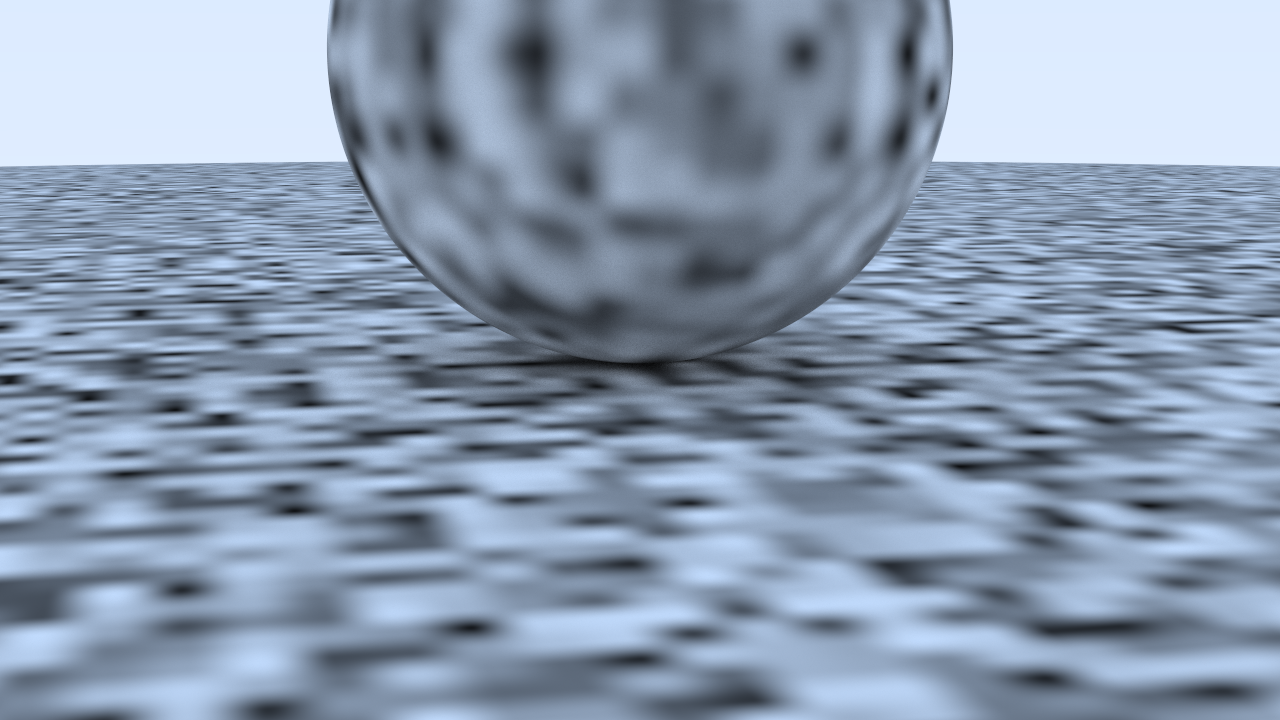
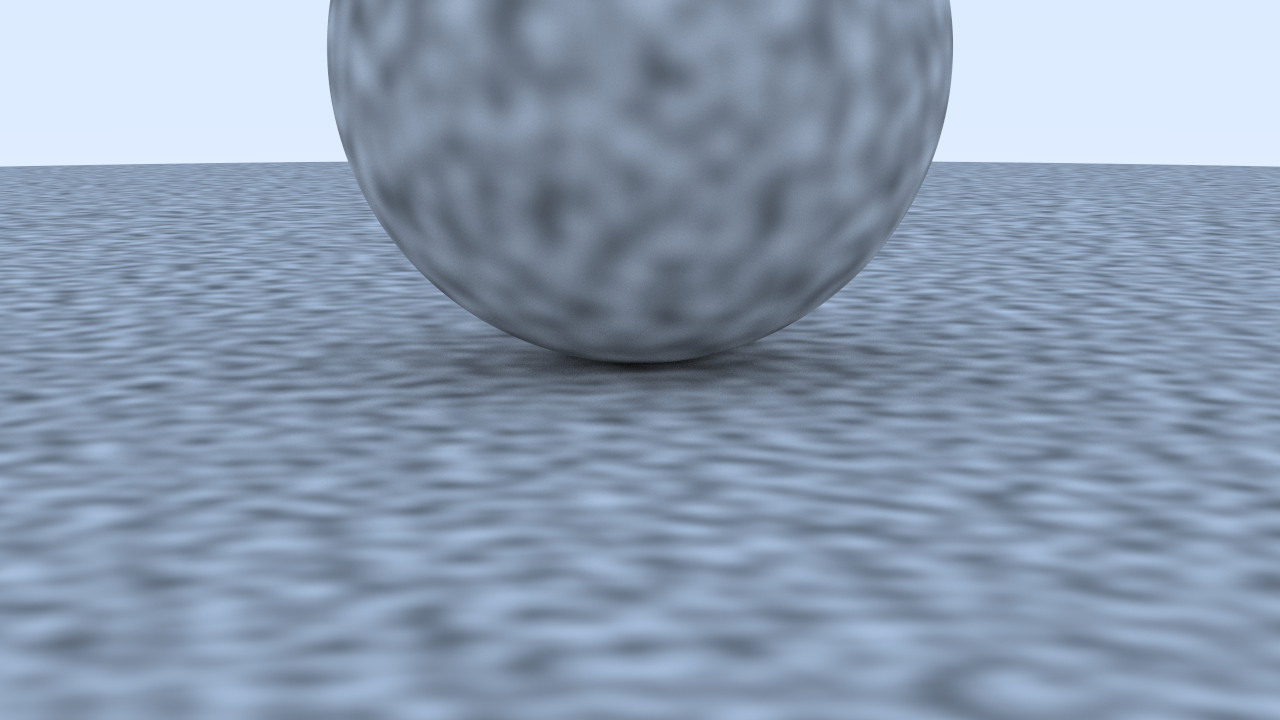
feat: randomize lattice points

diff --git a/src/common/perlin.h b/src/common/perlin.h
@@ -6,8 +6,8 @@
 
 struct Perlin {
     Perlin() {
-        for (auto& elem : m_rand_float) {
-            elem = random_double();
+        for (auto& elem : m_rand_vec) {
+            elem = Vec3d::Random().normalized();
         }
         perlin_generate_perm(m_perm_x);
         perlin_generate_perm(m_perm_y);
@@ -19,30 +19,26 @@ struct Perlin {
         const double v = p.y() - std::floor(p.y());
         const double w = p.z() - std::floor(p.z());
 
-        const double hermit_u = u * u * (3.0 - 2.0 * u);
-        const double hermit_v = v * v * (3.0 - 2.0 * v);
-        const double hermit_w = w * w * (3.0 - 2.0 * w);
-
         const int i = int(std::floor(p.x()));
         const int j = int(std::floor(p.y()));
         const int k = int(std::floor(p.z()));
 
-        double c[2][2][2];
+        Vec3d c[2][2][2];
         for (int di = 0; di < 2; ++di) {
             for (int dj = 0; dj < 2; ++dj) {
                 for (int dk = 0; dk < 2; ++dk) {
-                    c[di][dj][dk] = m_rand_float[m_perm_x[(i + di) & 255] ^ m_perm_y[(j + dj) & 255]
-                                                 ^ m_perm_z[(k + dk) & 255]];
+                    c[di][dj][dk] = m_rand_vec[m_perm_x[(i + di) & 255] ^ m_perm_y[(j + dj) & 255]
+                                               ^ m_perm_z[(k + dk) & 255]];
                 }
             }
         }
 
-        return trilinear_interp(c, hermit_u, hermit_v, hermit_w);
+        return trilinear_interp(c, u, v, w);
     }
 
 private:
     static constexpr int s_point_count = 256;
-    std::array<double, s_point_count> m_rand_float;
+    std::array<Vec3d, s_point_count> m_rand_vec;
     std::array<int, s_point_count> m_perm_x;
     std::array<int, s_point_count> m_perm_y;
     std::array<int, s_point_count> m_perm_z;
@@ -56,14 +52,19 @@ private:
         }
     }
 
-    static double trilinear_interp(const double c[2][2][2], const double u, const double v,
+    static double trilinear_interp(const Vec3d c[2][2][2], const double u, const double v,
         const double w) {
+        const double uu = u * u * (3.0 - 2.0 * u);
+        const double vv = v * v * (3.0 - 2.0 * v);
+        const double ww = w * w * (3.0 - 2.0 * w);
+
         double accum = 0.0;
         for (int i = 0; i < 2; ++i) {
             for (int j = 0; j < 2; ++j) {
                 for (int k = 0; k < 2; ++k) {
-                    accum += (i * u + (1 - i) * (1.0 - u)) * (j * v + (1 - j) * (1.0 - v))
-                             * (k * w + (1 - k) * (1.0 - w)) * c[i][j][k];
+                    const Vec3d weight_vec {u - i, v - j, w - k};
+                    accum += (i * uu + (1 - i) * (1.0 - uu)) * (j * vv + (1 - j) * (1.0 - vv))
+                             * (k * ww + (1 - k) * (1.0 - ww)) * c[i][j][k].dot(weight_vec);
                 }
             }
         }

diff --git a/src/common/texture.h b/src/common/texture.h
@@ -77,7 +77,7 @@ struct NoiseTexture {
     NoiseTexture(const double scale) : m_scale(scale) {}
 
     Vec3d value(const double u, const double v, const Vec3d& p) const {
-        return Vec3d {1.0, 1.0, 1.0} * m_noise.noise(m_scale * p);
+        return Vec3d {1.0, 1.0, 1.0} * 0.5 * (1.0 + m_noise.noise(m_scale * p));
     }
 
     Perlin m_noise;
